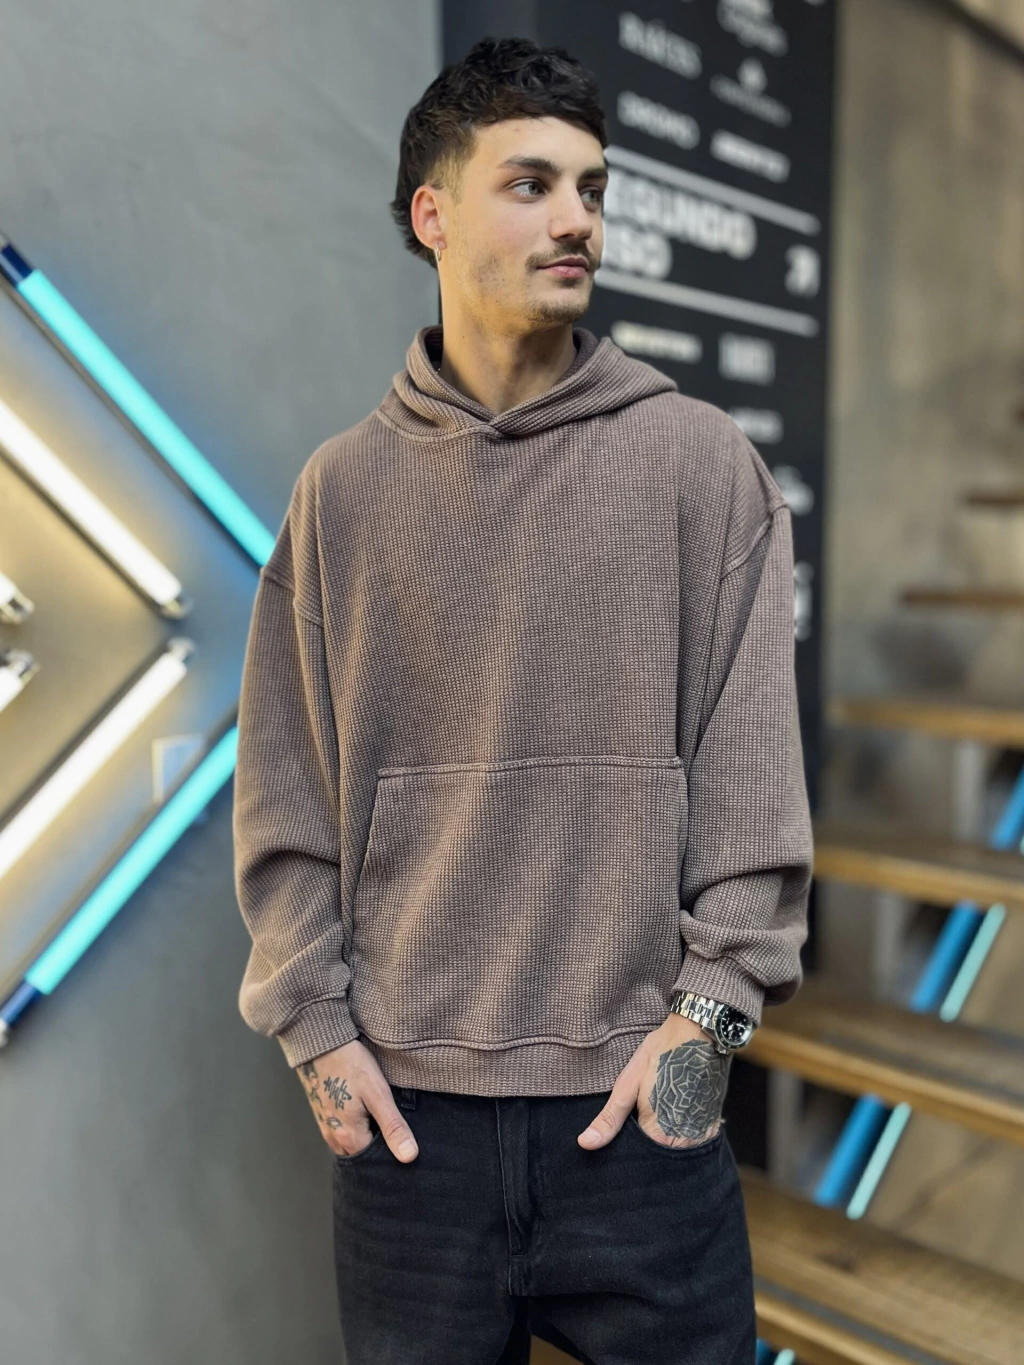
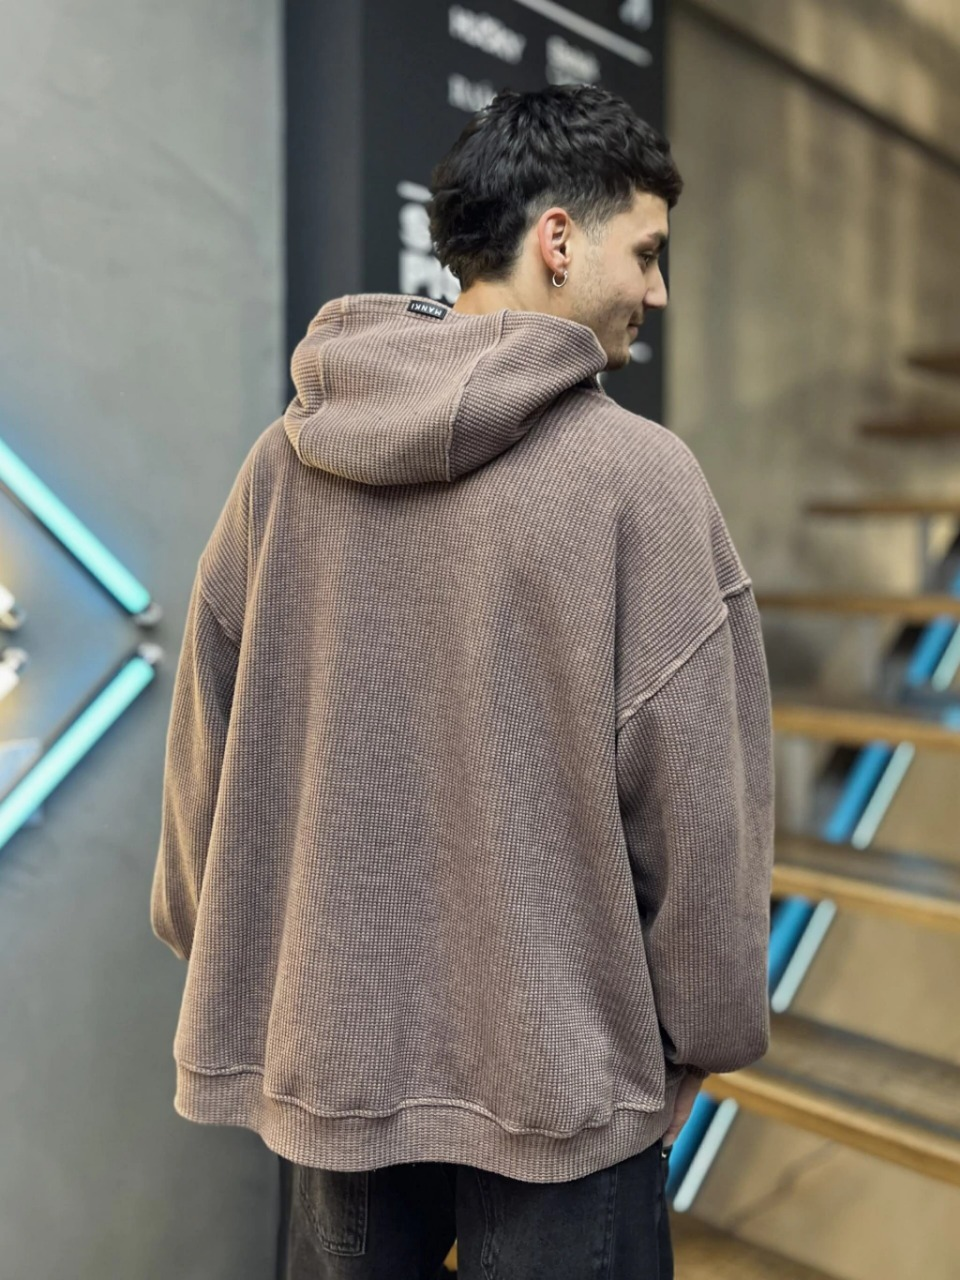
Imagenes de cada producto excepto pantalones corregidas

diff --git a/remeras.html b/remeras.html
@@ -26,17 +26,25 @@
   <main>
     <h1>Remeras</h1>
     <section class="productos">
-      <div class="producto">
-        <img src="REMERAS/Remera Azul Design.jpg" alt="Remera Azul Design">
-        <h2>Remera Azul Design</h2>
-        <p>$30.000</p>
-        <button class="add-to-cart" data-nombre="Remera Azul deign" data-precio="30000">
-          Agregar al carrito
-        </button>
-      </div>
 
       <div class="producto">
-        <img src="REMERAS/Remera Blanca Basic.jpg" alt="Remera Blanca Basic">
+  <div class="producto-img">
+    <img src="REMERAS/Remera Azul Design.jpg" alt="Remera Azul Design" class="img-principal">
+    <img src="REMERAS/Remera Azul Design-Detras.jpg" alt="Remera Azul Design" class="img-hover">
+  </div>
+  <h2>Remera Azul Design</h2>
+  <p>$30.000</p>
+  <button class="add-to-cart" data-nombre="Remera Azul Design" data-precio="30000">
+    Agregar al carrito
+  </button>
+</div>
+
+
+      <div class="producto">
+        <div class="producto-img">
+        <img src="REMERAS/Remera Blanca Basic.jpg" alt="Remera Blanca Basic" class="img-principal">
+        <img src="REMERAS/Remera Blanca Basic-Perfil.jpg" alt="Remera Blanca Basic" class="img-hover">
+        </div>
         <h2>Remera Blanca Basic</h2>
         <p>$33.000</p>
         <button class="add-to-cart" data-nombre="Remera Blanca Basic" data-precio="33000">
@@ -45,7 +53,10 @@
       </div>
 
       <div class="producto">
-        <img src="REMERAS/Remera Crema Simply.jpg" alt="Remera Crema Simply">
+        <div class="producto-img">
+        <img src="REMERAS/Remera Crema Simply.jpg" alt="Remera Crema Simply" class="img-principal">
+        <img src="REMERAS/Remera Crema Simply-Detras.jpg" alt="Remera Crema Simply" class="img-hover">
+        </div>
         <h2>Remera Crema Simply</h2>
         <p>$37.000</p>
         <button class="add-to-cart" data-nombre="Remera Crema Simply" data-precio="37000">
@@ -54,7 +65,10 @@
       </div>
 
       <div class="producto">
-        <img src="REMERAS/Remera Gris over-estampada.jpg" alt="Remera Gris over-estampada">
+        <div class="producto-img">
+        <img src="REMERAS/Remera Gris over-estampada.jpg" alt="Remera Gris over-estampada" class="img-principal">
+        <img src="REMERAS/Remera gris over-estampada-detras.png" alt="Remera Gris over-estampada" class="img-hover">
+        </div>
         <h2>Remera Gris over-estampada</h2>
         <p>$41.000</p>
         <button class="add-to-cart" data-nombre="Remera gris over-estampada" data-precio="41000">
@@ -63,7 +77,10 @@
       </div>
 
       <div class="producto">
-        <img src="REMERAS/Remera Negra Basic.jpg" alt="Remera Negra Basic">
+        <div class="producto-img">
+        <img src="REMERAS/Remera Negra Basic.jpg" alt="Remera Negra Basic" class="img-principal">
+         <img src="REMERAS/Remera Negra Basic-Detras.jpg" alt="Remera Negra Basic" class="img-hover">
+        </div>
         <h2>Remera Negra Basic</h2>
         <p>$45.000</p>
         <button class="add-to-cart" data-nombre="Remera Negra Basic" data-precio="45000">
@@ -72,7 +89,10 @@
       </div>
 
       <div class="producto">
-        <img src="REMERAS/Remera Negra Simply.jpg" alt="Remera Negra Simply">
+        <div class="producto-img">
+        <img src="REMERAS/Remera Negra Simply.jpg" alt="Remera Negra Simply" class="img-principal">
+        <img src="REMERAS/Remera Negra Simply-Detras.jpg" alt="Remera Negra Simply" class="img-hover">
+        </div>
         <h2>Remera Negra Simply</h2>
         <p>$50.000</p>
         <button class="add-to-cart" data-nombre="Remera Negro Simply" data-precio="50000">

diff --git a/main.html b/main.html
@@ -41,46 +41,65 @@
 
 
   <!-- Productos principales -->
-  <main>
-    <h1>PRODUCTOS MAS VENDIDOS</h1>
-    <section class="productos">
-      <div class="producto">
-        <img src="REMERAS/Remera Azul Design.jpg" alt="Remera Azul">
-        <h2>Remera Azul Design</h2>
-        <p>$10.000</p>
-        <button class="add-to-cart" data-nombre="Remera Azul Design" data-precio="10000">
-          Agregar al carrito
-        </button>
-      </div>
+<main>
+  <h1>PRODUCTOS MAS VENDIDOS</h1>
+  <section class="productos">
 
-      <div class="producto">
-        <img src="BUZOS/buzo negro desgastado.jpg" alt="Buzo Negro Urban">
-        <h2>Buzo Negro Urban</h2>
-        <p>$20.000</p>
-        <button class="add-to-cart" data-nombre="Buzo Negro Urban" data-precio="20000">
-          Agregar al carrito
-        </button>
+    <!-- REMERA -->
+    <div class="producto">
+      <div class="producto-img">
+        <img src="REMERAS/Remera Azul Design.jpg" alt="Remera Azul Design" class="img-principal">
+        <img src="REMERAS/Remera Azul Design-Detras.jpg" alt="Remera Azul Design" class="img-hover">
       </div>
+      <h2>Remera Azul Design</h2>
+      <p>$10.000</p>
+      <button class="add-to-cart" data-nombre="Remera Azul Design" data-precio="10000">
+        Agregar al carrito
+      </button>
+    </div>
 
-      <div class="producto">
-        <img src="PANTALONES/Cargo color Negro (con puño).jpg" alt="Pantalón Cargo">
-        <h2>Pantalón Cargo</h2>
-        <p>$18.500</p>
-        <button class="add-to-cart" data-nombre="Pantalón Cargo" data-precio="18500">
-          Agregar al carrito
-        </button>
+    <!-- BUZO -->
+    <div class="producto">
+      <div class="producto-img">
+        <img src="BUZOS/buzo negro desgastado.jpg" alt="Buzo Negro Urban" class="img-principal">
+        <img src="BUZOS/buzo negro desgastado-2.jpg" alt="Buzo Negro Urban" class="img-hover">
       </div>
+      <h2>Buzo Negro Urban</h2>
+      <p>$20.000</p>
+      <button class="add-to-cart" data-nombre="Buzo Negro Urban" data-precio="20000">
+        Agregar al carrito
+      </button>
+    </div>
 
-      <div class="producto">
-        <img src="ZAPATILLAS/Vans Knu blanco-negro.jpg" alt="Zapatillas Blancas">
-        <h2>Zapatillas Blancas</h2>
-        <p>$25.000</p>
-        <button class="add-to-cart" data-nombre="Zapatillas Blancas" data-precio="25000">
-          Agregar al carrito
-        </button>
+    <!-- PANTALÓN -->
+    <div class="producto">
+      <div class="producto-img">
+        <img src="PANTALONES/Cargo color Negro (con puño).jpg" alt="Pantalón Cargo" class="img-principal">
+        <img src="PANTALONES/Cargo Negro 2.jpg" alt="Pantalón Cargo" class="img-hover">
       </div>
-    </section>
-  </main>
+      <h2>Pantalón Cargo</h2>
+      <p>$18.500</p>
+      <button class="add-to-cart" data-nombre="Pantalón Cargo" data-precio="18500">
+        Agregar al carrito
+      </button>
+    </div>
+
+    <!-- ZAPATILLAS -->
+    <div class="producto">
+      <div class="producto-img">
+        <img src="ZAPATILLAS/Vans Knu blanco-negro.jpg" alt="Zapatillas Blancas" class="img-principal">
+        <img src="ZAPATILLAS/Vans Knu blanco-negro-2.jpg" alt="Zapatillas Blancas" class="img-hover">
+      </div>
+      <h2>Zapatillas Blancas</h2>
+      <p>$25.000</p>
+      <button class="add-to-cart" data-nombre="Zapatillas Blancas" data-precio="25000">
+        Agregar al carrito
+      </button>
+    </div>
+
+  </section>
+</main>
+
 
   <!-- Sección Sobre nosotros -->
   <section class="sobre-nosotros">

diff --git a/zapatillas.html b/zapatillas.html
@@ -27,7 +27,10 @@
     <h1>Zapatillas</h1>
     <section class="productos">
       <div class="producto">
-        <img src="ZAPATILLAS/Adidas Campus Gris.webp" alt="Adidas Campus Gris">
+      <div class="producto-img">
+        <img src="ZAPATILLAS/Adidas Campus Gris.webp" alt="Adidas Campus Gris" class="img-principal">
+        <img src="ZAPATILLAS/Adidas Campus Gris-2.webp" alt="Adidas Campus Gris" class="img-hover">
+      </div>
         <h2>Adidas Campus Gris</h2>
         <p>$165.000</p>
         <button class="add-to-cart" data-nombre="Adidas Capus Gris" data-precio="165000">
@@ -36,7 +39,11 @@
       </div>
 
       <div class="producto">
-        <img src="ZAPATILLAS/Adidas samba clasicas blancas.avif" alt="Adidas Samba clásicas blancas">
+        <div class="producto-img">
+        <img src="ZAPATILLAS/Adidas samba clasicas blancas.avif" alt="Adidas Samba clásicas blancas" class="img-principal">
+        <img src="ZAPATILLAS/Adidas samba clasicas blancas-2.avif" alt="Adidas Samba clásicas blancas" class="img-hover">
+        </div>
+
         <h2>Adidas Samba clásicas blancas</h2>
         <p>$170.000</p>
         <button class="add-to-cart" data-nombre="Adidas Samba clasicas blancas" data-precio="170000">
@@ -45,7 +52,10 @@
       </div>
 
       <div class="producto">
-        <img src="ZAPATILLAS/Adidas samba clasicas negras.avif" alt="Adidas Samba clásicas negras">
+        <div class="producto-img">
+        <img src="ZAPATILLAS/Adidas samba clasicas negras.avif" alt="Adidas Samba clásicas negras" class="img-principal">
+        <img src="ZAPATILLAS/Adidas samba clasicas negras-2.avif" alt="Adidas Samba clásicas negras" class="img-hover">
+        </div>
         <h2>Adidas Samba clásicas negras</h2>
         <p>$180.000</p>
         <button class="add-to-cart" data-nombre="Adidas Samba clasicas negras" data-precio="180000">
@@ -55,7 +65,10 @@
 
 
       <div class="producto">
-        <img src="ZAPATILLAS/campus verdes.avif" alt="Campus verdes">
+        <div class="producto-img">
+        <img src="ZAPATILLAS/campus verdes.avif" alt="Campus verdes" class="img-principal">
+        <img src="ZAPATILLAS/campus verdes-2.avif" alt="Campus verdes" class="img-hover">
+        </div>
         <h2>Campus verdes</h2>
         <p>$195.000</p>
         <button class="add-to-cart" data-nombre="Campus verdes" data-precio="195000">
@@ -64,7 +77,10 @@
       </div>
 
       <div class="producto">
-        <img src="ZAPATILLAS/Vans Knu blanco-negro.jpg" alt="Vans Knu blanco-negro">
+        <div class="producto-img">
+        <img src="ZAPATILLAS/Vans Knu blanco-negro.jpg" alt="Vans Knu blanco-negro" class="img-principal">
+        <img src="ZAPATILLAS/Vans Knu blanco-negro-2.jpg" alt="Vans Knu blanco-negro" class="img-hover">
+        </div>
         <h2>Vans Knu blanco-negro</h2>
         <p>$200.000</p>
         <button class="add-to-cart" data-nombre="Vans Knu blaco-negro" data-precio="200000">
@@ -73,7 +89,10 @@
       </div>
 
       <div class="producto">
-        <img src="ZAPATILLAS/Vans Knu Negras.jpg" alt="Vans Knu Negras">
+        <div class="producto-img">
+        <img src="ZAPATILLAS/Vans Knu Negras.jpg" alt="Vans Knu Negras" class="img-principal">
+        <img src="ZAPATILLAS/Vans Knu Negras-2.jpg" alt="Vans Knu Negras" class="img-hover">
+        </div>
         <h2>Vans Knu Negras</h2>
         <p>$210.000</p>
         <button class="add-to-cart" data-nombre="Vans Knu Negras" data-precio="210000">

diff --git a/buzos.html b/buzos.html
@@ -27,7 +27,10 @@
     <h1>Buzos</h1>
     <section class="productos">
       <div class="producto">
-        <img src="BUZOS/buzo blanco bordado.jpg" alt="Buzo blanco bordado">
+        <div class="producto-img">
+        <img src="BUZOS/buzo blanco bordado.jpg" alt="Buzo blanco bordado" class="img-principal">
+        <img src="BUZOS/buzo blanco bordado-2.jpg" alt="Buzo blanco bordado" class="img-hover">
+        </div>
         <h2>Buzo blanco bordado</h2>
         <p>$60.000</p>
         <button class="add-to-cart" data-nombre="Buzos blanco bordado" data-precio="60000">
@@ -36,7 +39,10 @@
       </div>
 
       <div class="producto">
-        <img src="BUZOS/buzo design.jpg" alt="Buzo design">
+        <div class="producto-img">
+        <img src="BUZOS/buzo design.jpg" alt="Buzo design" class="img-principal">
+        <img src="BUZOS/buzo design-2.jpg" alt="Buzo design" class="img-hover">
+        </div>
         <h2>Buzo design</h2>
         <p>$70.000</p>
         <button class="add-to-cart" data-nombre="Buzo design" data-precio="70000">
@@ -45,7 +51,10 @@
       </div>
 
       <div class="producto">
-        <img src="BUZOS/buzo gris desgastado.jpg" alt="Buzo gris desgastado">
+      <div class="producto-img">
+        <img src="BUZOS/buzo gris desgastado.jpg" alt="Buzo gris desgastado" class="img-principal">
+        <img src="BUZOS/buzo gris desgastado-2.jpg" alt="Buzo gris desgastado" class="img-hover">
+      </div>
         <h2>Buzo gris desgastado</h2>
         <p>$75.000</p>
         <button class="add-to-cart" data-nombre="Buzo gris desgastado" data-precio="75000">
@@ -54,7 +63,10 @@
       </div>
 
       <div class="producto">
-        <img src="BUZOS/buzo gris estampado.jpg" alt="Buzo gris estampado">
+        <div class="producto-img">
+        <img src="BUZOS/buzo gris estampado.jpg" alt="Buzo gris estampado" class="img-principal">
+        <img src="BUZOS/buzo gris estampado-2.jpg" alt="Buzo gris estampado" class="img-hover">
+        </div>
         <h2>Buzo gris estampado</h2>
         <p>$80.000</p>
         <button class="add-to-cart" data-nombre="Buzo gris estampado" data-precio="80000">
@@ -63,7 +75,10 @@
       </div>
 
       <div class="producto">
-        <img src="BUZOS/buzo negro basic.jpg" alt="Buzo negro basic">
+        <div class="producto-img">
+        <img src="BUZOS/buzo negro basic.jpg" alt="Buzo negro basic" class="img-principal">
+        <img src="BUZOS/buzo negro basic.-2jpg.webp" alt="Buzo negro basic" class="img-hover">
+        </div>
         <h2>Buzo negro basic</h2>
         <p>$90.000</p>
         <button class="add-to-cart" data-nombre="Buzo negro basic" data-precio="90000">
@@ -72,7 +87,10 @@
       </div>
 
       <div class="producto">
-        <img src="BUZOS/buzo negro desgastado.jpg" alt="Buzo negro desgastado">
+      <div class="producto-img">
+      <img src="BUZOS/buzo negro desgastado.jpg" alt="Buzo negro desgastado" class="img-principal">
+      <img src="BUZOS/buzo negro desgastado-2.jpg" alt="Buzo negro desgastado" class="img-hover">
+      </div>
         <h2>Buzo negro desgastado</h2>
         <p>$100.000</p>
         <button class="add-to-cart" data-nombre="Buzo negro desgastado" data-precio="100000">

diff --git a/js/script.js b/js/script.js
@@ -181,3 +181,26 @@ document.addEventListener("DOMContentLoaded", () => {
   // guardar antes de salir (por si acaso)
   window.addEventListener('beforeunload', saveCart);
 });
+
+
+// Galería hover
+document.querySelectorAll('.hover-gallery').forEach(gallery => {
+  let imgs = gallery.querySelectorAll('img');
+  let index = 0;
+  let interval;
+
+  gallery.addEventListener('mouseenter', () => {
+    interval = setInterval(() => {
+      imgs[index].classList.remove('activa');
+      index = (index + 1) % imgs.length;
+      imgs[index].classList.add('activa');
+    }, 500); // cambia cada 1 segundo
+  });
+
+  gallery.addEventListener('mouseleave', () => {
+    clearInterval(interval);
+    imgs.forEach(img => img.classList.remove('activa'));
+    imgs[0].classList.add('activa'); // vuelve a la primera
+    index = 0;
+  });
+});

diff --git a/css/style.css b/css/style.css
@@ -319,3 +319,43 @@ footer {
 .oculto {
   display: none;
 }
+
+
+/* Hover entre 2 imágenes */
+.producto-img {
+  position: relative;
+  width: 100%;
+  height: 200px;
+  overflow: hidden;
+}
+
+.producto-img img {
+  position: absolute;
+  top: 0; left: 0;
+  width: 100%;
+  height: 100%;
+  object-fit: cover;
+  border-radius: 6px;
+  transition: opacity 0.4s ease-in-out;
+}
+
+/* Imagen principal visible por defecto */
+.producto-img .img-principal {
+  opacity: 1;
+  z-index: 1;
+}
+
+/* Imagen secundaria oculta por defecto */
+.producto-img .img-hover {
+  opacity: 0;
+  z-index: 2;
+}
+
+/* Al pasar el mouse */
+.producto-img:hover .img-principal {
+  opacity: 0;
+}
+
+.producto-img:hover .img-hover {
+  opacity: 1;
+}
